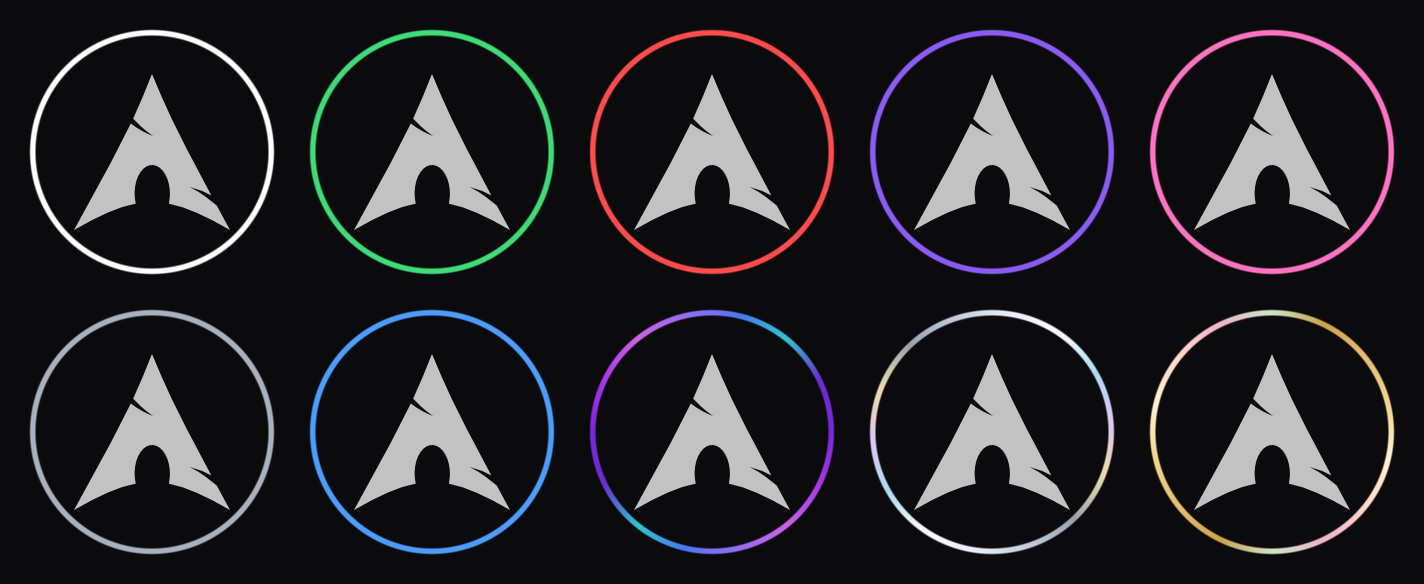
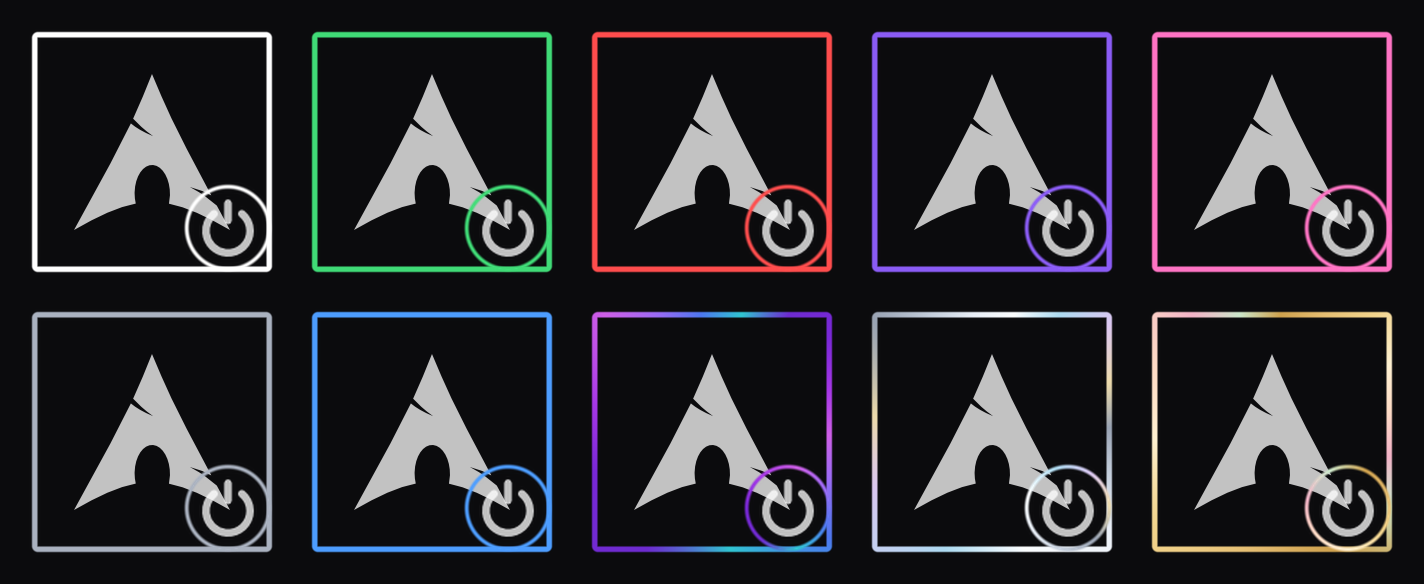
Square outline on the OS row, circle on the tool row
Only the tool-row selection (selection_small) is a circle; the OS-row
selection (selection_big) goes back to a rounded square. generate.py
picks the shape per asset via a shape_sdf helper; contact sheet now
shows both. Icon sizes (192 / 48) unchanged.

diff --git a/tools/generate.py b/tools/generate.py
@@ -4,13 +4,14 @@ Regenerate the selection-highlight assets for every colour variant of the
 Prism Minimal rEFInd theme.
 
 rEFInd draws ``selection_big`` / ``selection_small`` *behind* the focused icon.
-The selection here is **only a circular coloured ring** — nothing inside it, no
-fill, no glow, no sheen. The white icon shows through unchanged; the one bit of
-colour on the screen is the ring around the entry you're about to boot. Both
-rows (OS icons and the tool row) use the same ring.
+The selection here is **only a coloured outline** — nothing inside it, no fill,
+no glow, no sheen. The white icon shows through unchanged.
 
-The three premium variants use an *iridescent* ring: the stroke cycles hue
-around the circle (a holographic-foil look) instead of being one flat colour.
+  * ``selection_big``   (OS row)   — a rounded **square** outline
+  * ``selection_small`` (tool row) — a **circular** outline
+
+The three premium variants use an *iridescent* stroke: the colour cycles hue
+around the outline (a holographic-foil look) instead of being one flat colour.
 rEFInd has no shader to do that at runtime, so it's baked into the PNG.
 
 Output (this script only ever writes here):
@@ -81,18 +82,19 @@ ALL_VARIANTS = list(SIMPLE) + list(PREMIUM)
 
 # --------------------------------------------------------------- geometry --
 
-# The ring is drawn on a canvas the size of the icon cell; the circle is
-# inset a few px so it clears the cell edge. `border` is a touch wider than
-# the visible stroke because rEFInd scales the asset down to icon size
-# (192 / 48 here), which thins it.
+# The outline is drawn on a canvas the size of the icon cell, inset a few px so
+# it clears the edge. `border` is a touch wider than the visible stroke because
+# rEFInd scales the asset down to icon size (192 / 48 here), which thins it.
+#   big   -> rounded square outline for the OS row
+#   small -> circle outline for the tool row
 SPECS = {
-    "big":   dict(px=256, margin=6.0, border=5.5),
-    "small": dict(px=64,  margin=2.0, border=2.6),
+    "big":   dict(px=256, shape="square", margin=8.0, radius=6.0, border=5.5),
+    "small": dict(px=64,  shape="circle", margin=2.0, radius=0.0, border=2.6),
 }
 SS = 4  # supersample factor
 
 BORDER_ALPHA = 1.0
-# Premium: hue cycles *around the ring* (angular). Must be a whole number so
+# Premium: hue cycles *around the outline* (angular). Must be a whole number so
 # the loop closes seamlessly across arctan2's branch cut.
 RING_CYCLES_BIG = 2.0
 RING_CYCLES_SMALL = 1.0
@@ -108,6 +110,18 @@ def hex_rgb(h: str) -> np.ndarray:
 def smoothstep(e0: float, e1: float, x: np.ndarray) -> np.ndarray:
     t = np.clip((x - e0) / (e1 - e0), 0.0, 1.0)
     return t * t * (3.0 - 2.0 * t)
+
+
+def shape_sdf(shape: str, px: np.ndarray, py: np.ndarray,
+              half: float, r: float) -> np.ndarray:
+    """Signed distance (<0 inside) to a circle or an axis-aligned rounded square
+    centred at the origin."""
+    if shape == "circle":
+        return np.hypot(px, py) - half
+    qx = np.abs(px) - (half - r)
+    qy = np.abs(py) - (half - r)
+    return (np.hypot(np.maximum(qx, 0.0), np.maximum(qy, 0.0))
+            + np.minimum(np.maximum(qx, qy), 0.0) - r)
 
 
 def gradient_lut(stops: list[str], n: int = 1024) -> np.ndarray:
@@ -143,19 +157,24 @@ def render(kind: str, variant: str) -> Image.Image:
     ys, xs = np.mgrid[0:hi, 0:hi].astype(float)
     c = (hi - 1) / 2.0
     px, py = xs - c, ys - c
-    rho = np.hypot(px, py)
 
     outer = (size / 2.0 - spec["margin"]) * SS
     bw = spec["border"] * SS
+    r = spec["radius"] * SS
     aa = 1.1 * SS  # ~0.28 px feather in final pixels — crisp, not aliased
 
-    ring = np.clip(smoothstep(aa, -aa, rho - outer)
-                   - smoothstep(aa, -aa, rho - (outer - bw)), 0.0, 1.0)
+    d_out = shape_sdf(spec["shape"], px, py, outer, r)
+    d_in = shape_sdf(spec["shape"], px, py, outer - bw, max(r - bw, 0.4 * SS))
+    ring = np.clip(smoothstep(aa, -aa, d_out) - smoothstep(aa, -aa, d_in), 0.0, 1.0)
 
     if premium:
         lut = gradient_lut(PREMIUM[variant])
         cycles = RING_CYCLES_BIG if kind == "big" else RING_CYCLES_SMALL
         theta = np.arctan2(py, px) / (2.0 * np.pi) + 0.5
+        # a square perimeter bunches the hue at its corners under a pure angular
+        # map; a touch of diagonal evens it out. A circle doesn't need it.
+        if spec["shape"] == "square":
+            theta = theta + 0.18 * ((xs / hi) * 0.58 + (ys / hi) * 0.42)
         t = np.mod((theta + PREMIUM_PHASE[variant]) * cycles, 1.0)
         stroke_rgb = lut[np.clip((t * len(lut)).astype(int), 0, len(lut) - 1)]
         stroke_rgb = downscale(stroke_rgb, size)
@@ -178,13 +197,18 @@ def build(variant: str) -> None:
 
 
 def make_preview(variants: list[str]) -> None:
-    """Contact sheet: each variant's selection_big behind the white arch icon,
-    exactly the way rEFInd stacks them (selection first, icon on top)."""
-    icon_path = REPO / "icons" / "os_arch.png"
-    if not icon_path.exists():
+    """Contact sheet: per variant, the square selection_big behind the white
+    arch icon (OS row) and, inset bottom-right, the circular selection_small
+    behind a tool icon — icons drawn on top, rEFInd's own order."""
+    os_p = REPO / "icons" / "os_arch.png"
+    tool_p = REPO / "icons" / "func_shutdown.png"
+    if not os_p.exists():
         print("  (skipping preview: icons/os_arch.png not found)")
         return
-    icon = Image.open(icon_path).convert("RGBA").resize((256, 256), Image.LANCZOS)
+    os_icon = Image.open(os_p).convert("RGBA").resize((256, 256), Image.LANCZOS)
+    chip = 92
+    tool_icon = (Image.open(tool_p).convert("RGBA").resize((chip, chip), Image.LANCZOS)
+                 if tool_p.exists() else None)
 
     cell, pad, cols = 256, 24, 5
     rows = (len(variants) + cols - 1) // cols
@@ -197,7 +221,12 @@ def make_preview(variants: list[str]) -> None:
         cy = pad + (i // cols) * (cell + pad)
         tile = Image.new("RGBA", (cell, cell), (11, 11, 13, 255))
         tile.alpha_composite(Image.open(COLORS_DIR / v / "selection_big.png").convert("RGBA"))
-        tile.alpha_composite(icon)
+        tile.alpha_composite(os_icon)
+        if tool_icon is not None:
+            sm = Image.open(COLORS_DIR / v / "selection_small.png").convert("RGBA").resize((chip, chip), Image.LANCZOS)
+            ox, oy = cell - chip - 6, cell - chip - 6
+            tile.alpha_composite(sm, (ox, oy))
+            tile.alpha_composite(tool_icon, (ox, oy))
         sheet.alpha_composite(tile, (cx, cy))
 
     dest = REPO / "preview.png"

diff --git a/README.md b/README.md
@@ -2,13 +2,13 @@
 
 A dark, ultra-minimal [rEFInd](https://www.rodsbooks.com/refind/) boot theme —
 pure-black background, white silhouette OS icons, no panels, no labels. The
-**selected** entry is marked by one thing only: a thin coloured ring around
-it. No fill, no glow, no sheen — the white icon shows through untouched. Both
-rows (OS icons and the tool row) use the same ring.
+**selected** entry is marked by one thing only: a thin coloured outline around
+it — a **square** on the OS row, a **circle** on the tool row. No fill, no
+glow, no sheen; the white icon shows through untouched.
 
 It ships in **10 colours** — hence *Prism*. Six flat ones and a plain white
-default; three "premium" ones whose ring is **iridescent** — the stroke cycles
-hue around the circle like holographic foil (rEFInd has no shader to do that
+default; three "premium" ones whose outline is **iridescent** — the stroke
+cycles hue around it like holographic foil (rEFInd has no shader to do that
 live, so it's pre-rendered into the PNG).
 
 ![all ten selection styles](preview.png)
